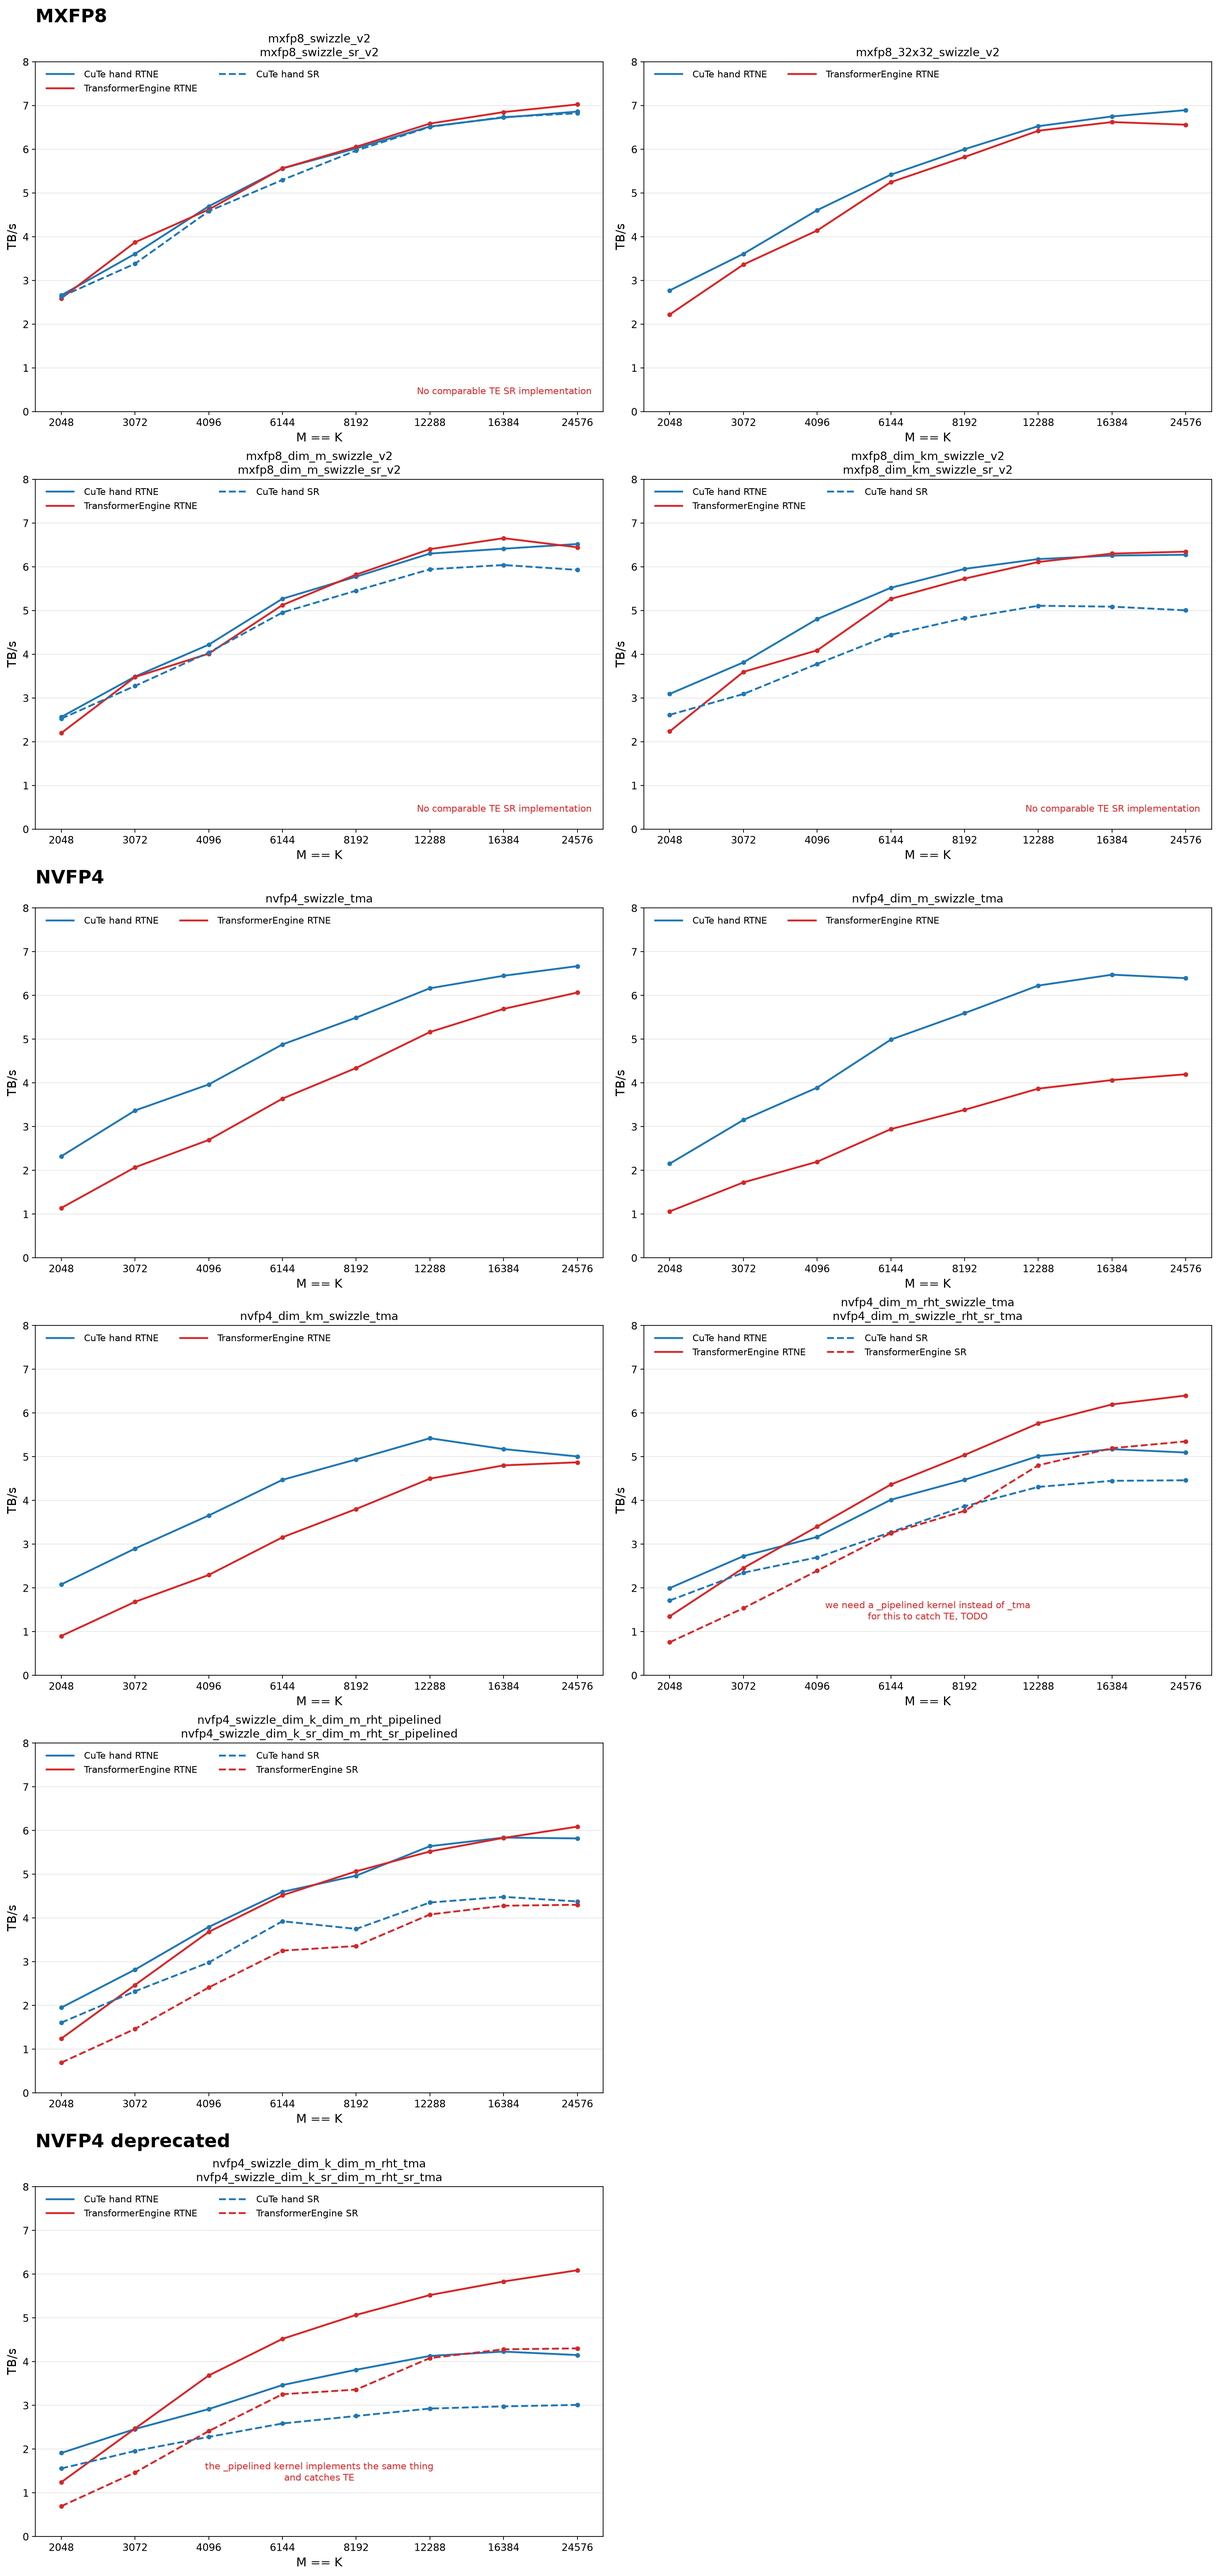
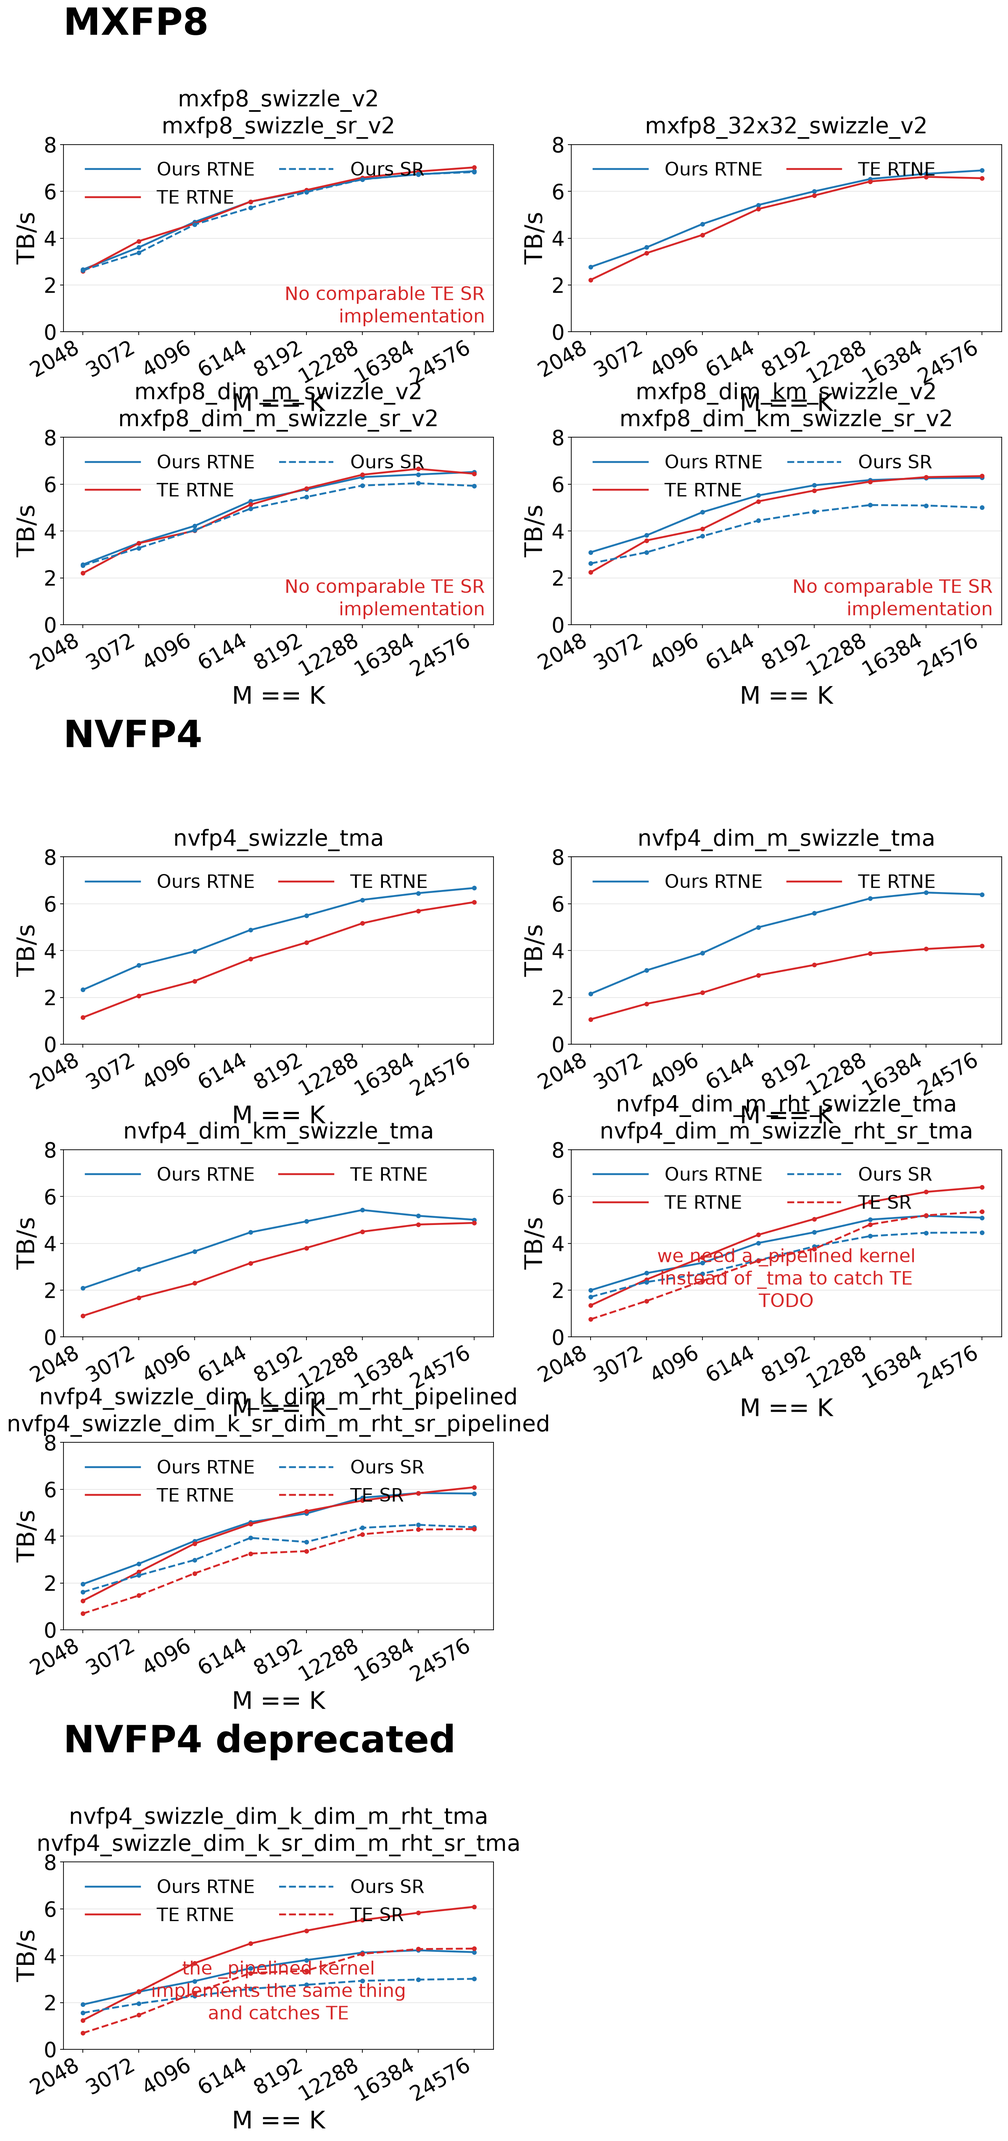
better charts
Summary:

Test Plan:

diff --git a/quant_cast_bench/quant_cast_cute_hand/plot_transformer_engine_comparison.py b/quant_cast_bench/quant_cast_cute_hand/plot_transformer_engine_comparison.py
@@ -14,12 +14,12 @@ import matplotlib.pyplot as plt
 OURS_COLOR = "#1f77b4"
 TE_COLOR = "#d62728"
 CHART_HEIGHT = 3.3 * 1.25 * 1.5
-SECTION_FONT_SIZE = 20
-TITLE_FONT_SIZE = 12
-LABEL_FONT_SIZE = 13
-TICK_FONT_SIZE = 11
-LEGEND_FONT_SIZE = 10
-ANNOTATION_FONT_SIZE = 10
+SECTION_FONT_SIZE = 40
+TITLE_FONT_SIZE = 24
+LABEL_FONT_SIZE = 26
+TICK_FONT_SIZE = 22
+LEGEND_FONT_SIZE = 20
+ANNOTATION_FONT_SIZE = 20
 
 DIM_M_RHT_TMA_KERNELS = {
     "nvfp4_dim_m_rht_swizzle_tma",
@@ -104,7 +104,7 @@ def _plot_chart(
             linewidth=2,
             marker="o",
             markersize=4,
-            label=f"CuTe hand {rounding}",
+            label=f"Ours {rounding}",
         )
 
         te_rows = [row for row in rows if row["te_tb_s"]]
@@ -117,7 +117,7 @@ def _plot_chart(
                 linewidth=2,
                 marker="o",
                 markersize=4,
-                label=f"TransformerEngine {rounding}",
+                label=f"TE {rounding}",
             )
         else:
             missing_te_rounding.append(rounding)
@@ -126,7 +126,7 @@ def _plot_chart(
         axis.text(
             0.98,
             0.05,
-            f"No comparable TE {'/'.join(missing_te_rounding)} implementation",
+            f"No comparable TE {'/'.join(missing_te_rounding)}\nimplementation",
             color=TE_COLOR,
             fontsize=ANNOTATION_FONT_SIZE,
             ha="right",
@@ -138,7 +138,7 @@ def _plot_chart(
         axis.text(
             0.5,
             0.16,
-            "we need a _pipelined kernel instead of _tma\nfor this to catch TE, TODO",
+            "we need a _pipelined kernel\ninstead of _tma to catch TE\nTODO",
             color=TE_COLOR,
             fontsize=ANNOTATION_FONT_SIZE,
             ha="center",
@@ -148,15 +148,17 @@ def _plot_chart(
         axis.text(
             0.5,
             0.16,
-            "the _pipelined kernel implements the same thing\nand catches TE",
+            "the _pipelined kernel\nimplements the same thing\nand catches TE",
             color=TE_COLOR,
             fontsize=ANNOTATION_FONT_SIZE,
             ha="center",
             transform=axis.transAxes,
         )
 
-    axis.set_title("\n".join(titles), fontsize=TITLE_FONT_SIZE)
-    axis.set_xticks(range(len(shapes)), [str(shape) for shape in shapes])
+    axis.set_title("\n".join(titles), fontsize=TITLE_FONT_SIZE, pad=12)
+    axis.set_xticks(
+        range(len(shapes)), [str(shape) for shape in shapes], rotation=30, ha="right"
+    )
     axis.set_xlabel("M == K", fontsize=LABEL_FONT_SIZE)
     axis.set_ylabel("TB/s", fontsize=LABEL_FONT_SIZE)
     axis.tick_params(axis="both", labelsize=TICK_FONT_SIZE)
@@ -168,6 +170,8 @@ def _plot_chart(
         ncol=2,
         frameon=False,
         handlelength=3.5,
+        handletextpad=0.6,
+        columnspacing=1.0,
         numpoints=2,
     )
     for line in legend.get_lines():
@@ -190,16 +194,18 @@ def plot(csv_path: Path, output_path: Path) -> None:
 
     height_ratios = []
     for variants in sections.values():
-        height_ratios.append(0.35)
+        height_ratios.append(0.7)
         height_ratios.extend(
             [CHART_HEIGHT] * math.ceil(len(variants) / column_count)
         )
 
-    figure = plt.figure(
-        figsize=(18, sum(height_ratios)), constrained_layout=True
-    )
+    figure = plt.figure(figsize=(18, sum(height_ratios)))
     grid = figure.add_gridspec(
-        len(height_ratios), column_count, height_ratios=height_ratios
+        len(height_ratios),
+        column_count,
+        height_ratios=height_ratios,
+        hspace=0.8,
+        wspace=0.18,
     )
     grid_row = 0
     for section_name, section_charts in sections.items():
